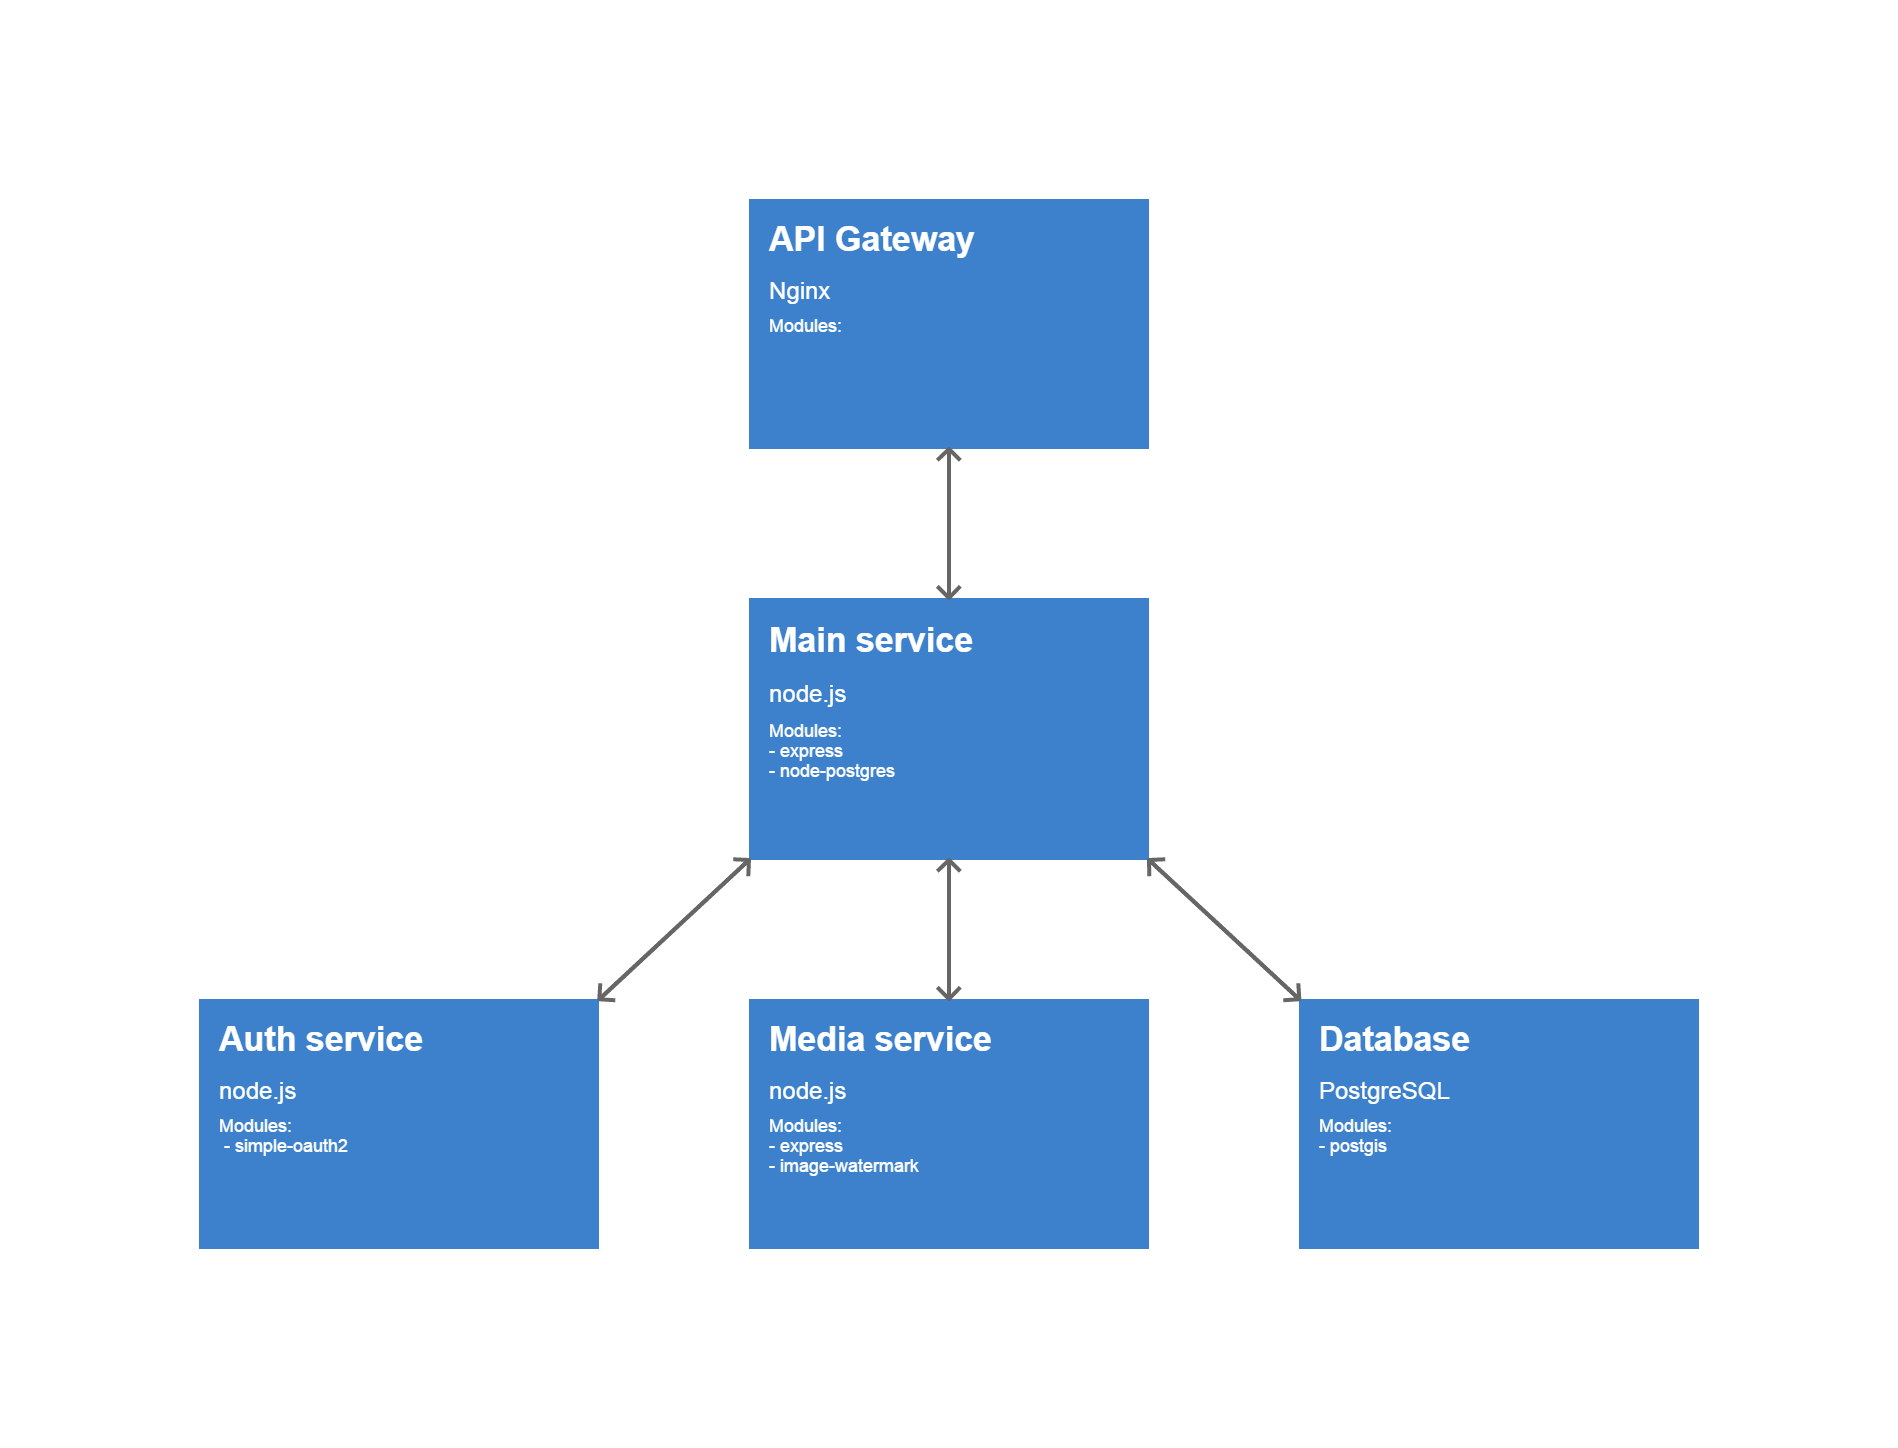
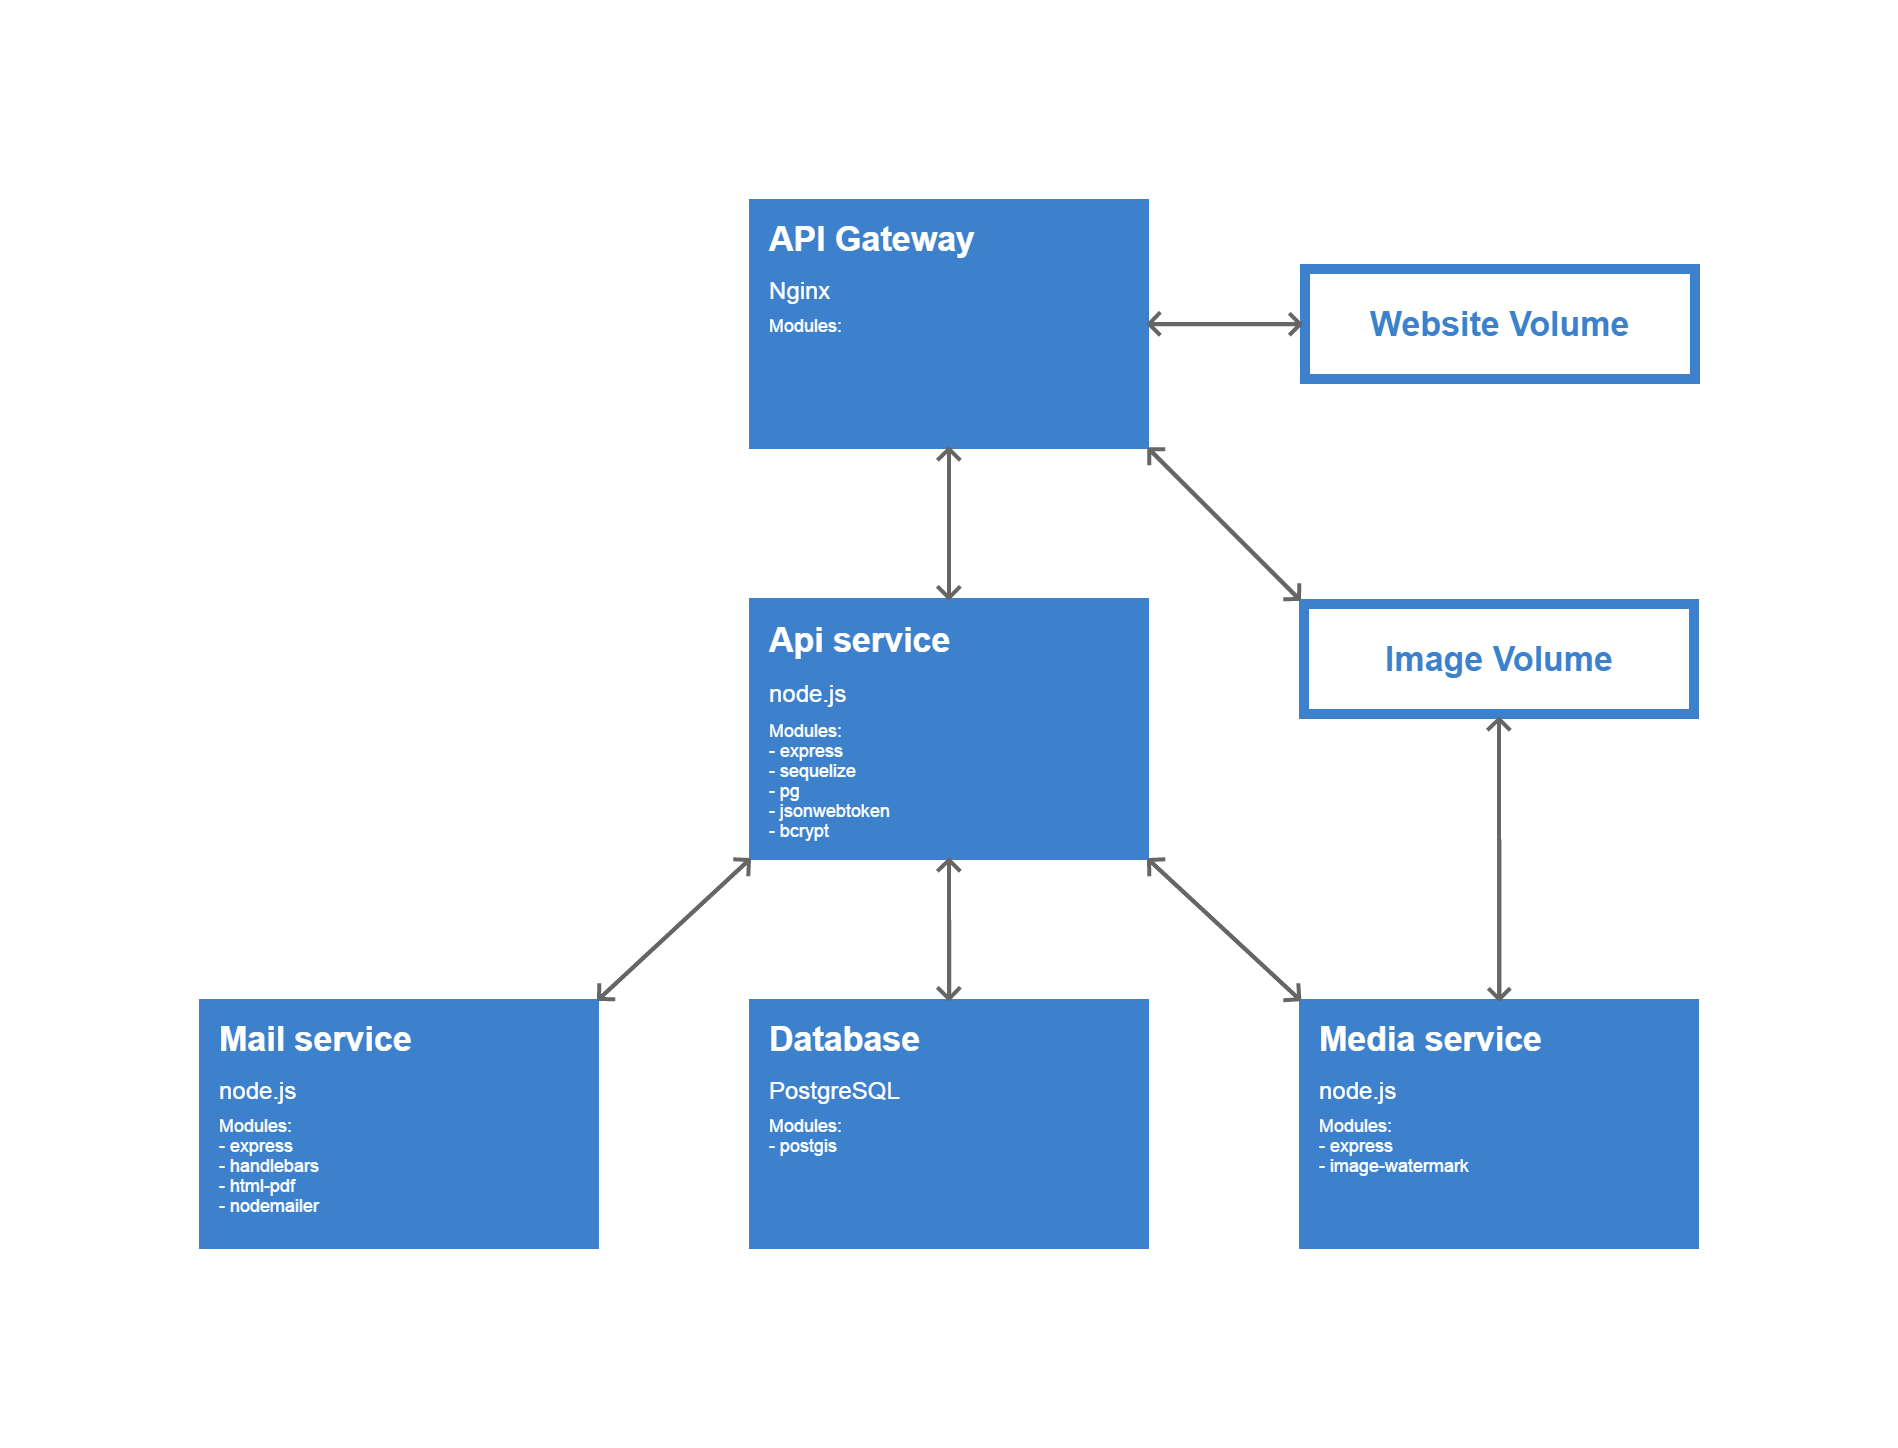
Revised SRS, added endpoint definitions

diff --git a/media/controllers/imageController.js b/media/controllers/imageController.js
@@ -1,7 +1,15 @@
 // Global image specifications.
 // TODO configure for multiple image sizes.
+// TODO Store info in a config.json file.
 const height = 450
 const width = 600
+
+const bgColor = 0x0000ffff
+const bgWidth = 400
+const bgHeight = 90
+const margin = 10
+
+const destinationDirectory = 'images/'
 
 const Jimp = require('jimp')
 const multer = require('multer')
@@ -12,7 +20,7 @@ const mime = require('mime')
 // extension.
 const storage = multer.diskStorage({
     destination: (req,res,cb) => {
-        cb(null, 'images/')
+        cb(null, destinationDirectory)
     },
     filename: (req,file,cb) => {
         crypto.pseudoRandomBytes(6, (err,raw) => {
@@ -25,19 +33,34 @@ const storage = multer.diskStorage({
 
 const upload = multer({storage: storage})
 
+function captionBackground(color,width,height) {
+    return function(x,y,offset) {
+        if(2*y+9*x<=9*width) {
+            this.bitmap.data.writeUInt32BE(color, offset, true);
+        }
+    }
+}
+
+// TODO Add a caption background size calculator, based on caption word length.
+const blueBackground = captionBackground(bgColor,bgWidth,bgHeight)
+
 // Image processing function, it returns a promise with the generated file name.
 function process(destination, filename ,caption) {
     var filepath = destination + filename
     return Jimp.read(filepath)
         .then( (image) => {
-            return Jimp.loadFont(Jimp.FONT_SANS_32_BLACK)
-            .then( (font) => {
-                image.resize(Jimp.AUTO,height)
-                     .cover(width,height,Jimp.HORIZONTAL_ALIGN_CENTER,Jimp.VERTICAL_ALIGN_MIDDLE)
-                     .print(font,10,10,caption,width/2)
-                     .write(filepath);
-                return Promise.resolve(filename)
-            })
+            return Jimp.loadFont(Jimp.FONT_SANS_32_WHITE)
+                       .then( (font) => {
+                           return Promise.resolve([image,font])
+                       })
+        })
+        .then( ([image,font]) => {
+            image.resize(Jimp.AUTO,height)
+                 .cover(width,height,Jimp.HORIZONTAL_ALIGN_CENTER,Jimp.VERTICAL_ALIGN_MIDDLE)
+                 .scan(0,0,bgWidth,bgHeight,blueBackground)
+                 .print(font,margin,margin,caption,bgWidth-2*margin)
+                 .write(filepath);
+            return Promise.resolve(filename)
         })
         .catch( (err) => {
             console.error(err)

diff --git a/Software Requirements Specification.md b/Software Requirements Specification.md
@@ -2,17 +2,19 @@
 
 ### for **goKiddo**
 
-#### 7/1/18 - Version 0.2 prepared by **TeamRocket**
+#### 7/1/18 - Version 0.4 prepared by **TeamRocket**
 
 <!-- TOC depthFrom:3 depthTo:6 withLinks:1 updateOnSave:0 orderedList:0 -->
 
-- [1. Introduction](#1-introduction)
+- [for **goKiddo**](#for-gokiddo)
+	- [7/1/18 - Version 0.4 prepared by **TeamRocket**](#7118-version-04-prepared-by-teamrocket)
+- [1.	 Introduction](#1-introduction)
 	- [1.1	Purpose](#11-purpose)
-	- [1.2 Document Conventions](#12-document-conventions)
+	- [1.2 	Document Conventions](#12-document-conventions)
 	- [1.3	Intended Audience and Reading Suggestions](#13-intended-audience-and-reading-suggestions)
 	- [1.4 	Product Scope](#14-product-scope)
 	- [1.5 	References](#15-references)
-- [2. 	Overall Description](#2-overall-description)
+- [2.		Overall Description](#2-overall-description)
 	- [2.1 	Product Perspective](#21-product-perspective)
 	- [2.2 	Product Functions](#22-product-functions)
 	- [2.3 	User Classes and Characteristics](#23-user-classes-and-characteristics)
@@ -20,32 +22,50 @@
 	- [2.5 	Design and Implementation Constraints](#25-design-and-implementation-constraints)
 	- [2.6 	User Documentation](#26-user-documentation)
 	- [2.7 	Assumptions and Dependencies](#27-assumptions-and-dependencies)
-- [3. 	External Interface Requirements](#3-external-interface-requirements)
+- [3.		External Interface Requirements](#3-external-interface-requirements)
 	- [3.1 	User Interfaces](#31-user-interfaces)
 	- [3.2 	Hardware Interfaces](#32-hardware-interfaces)
 	- [3.3 	Software Interfaces](#33-software-interfaces)
-		- [3.3.1 Auth service](#331-auth-service)
-		- [3.3.2 Database](#332-database)
-		- [3.3.3 Media service](#333-media-service)
-		- [3.3.4 Main service](#334-main-service)
-		- [3.3.5 API gateway](#335-api-gateway)
+		- [3.3.1		Mail service](#331-mail-service)
+		- [3.3.2		Database](#332-database)
+		- [3.3.3		Media service](#333-media-service)
+		- [3.3.4		Api service](#334-api-service)
+		- [3.3.5 	Nginx server](#335-nginx-server)
+		- [3.3.6 	App service](#336-app-service)
 	- [3.4 	Communications Interfaces](#34-communications-interfaces)
+		- [3.4.1	Public Endpoints](#341-public-endpoints)
+		- [3.4.2	Parent Protected Endpoints](#342-parent-protected-endpoints)
+		- [3.4.3	Owner Protected Endpoints](#343-owner-protected-endpoints)
+		- [3.4.3	Admin Protected Endpoints](#343-admin-protected-endpoints)
 - [4. 	System Features](#4-system-features)
-	- [4.1 User authentication](#41-user-authentication)
-		- [4.1.1 Description](#411-description)
+	- [4.1 	User authentication](#41-user-authentication)
+		- [4.1.1	Description](#411-description)
 		- [4.1.2 Stimulus/Response sequence](#412-stimulusresponse-sequence)
-	- [4.2 Activity search](#42-activity-search)
-	- [4.3 Activity booking](#43-activity-booking)
-	- [4.4 Venue registration](#44-venue-registration)
-	- [4.5 Activity registration](#45-activity-registration)
-	- [4.6 System administration](#46-system-administration)
+	- [4.2	Activity search](#42-activity-search)
+	- [4.2.1 	Description](#421-description)
+		- [4.2.2 Stimulus/Response sequence](#422-stimulusresponse-sequence)
+	- [4.3 	Activity booking](#43-activity-booking)
+	- [4.3.1 	Description](#431-description)
+		- [4.3.2 Stimulus/Response sequence](#432-stimulusresponse-sequence)
+	- [4.4	Currency management](#44-currency-management)
+	- [4.4.1	Description](#441-description)
+	- [4.4.2 Stimulus/Response sequence](#442-stimulusresponse-sequence)
+	- [4.5	Venue and activity registration](#45-venue-and-activity-registration)
+	- [4.5.1 	Venue registration](#451-venue-registration)
+	- [4.5.1.1 Description](#4511-description)
+	- [4.5.2	Activity registration](#452-activity-registration)
+	- [4.5.2.1	Description](#4521-description)
+	- [4.5.3 Stimulus/Response sequence](#453-stimulusresponse-sequence)
+	- [4.6	System administration](#46-system-administration)
+	- [4.6.1 	Description](#461-description)
+	- [4.6.2	Stimulus/Response sequence](#462-stimulusresponse-sequence)
 - [5. 	Other Nonfunctional Requirements](#5-other-nonfunctional-requirements)
-	- [5.1     Performance Requirements](#51-performance-requirements)
+	- [5.1	Performance Requirements](#51-performance-requirements)
 	- [5.2 	Safety Requirements](#52-safety-requirements)
 	- [5.3 	Security Requirements](#53-security-requirements)
 	- [5.4 	Software Quality Attributes](#54-software-quality-attributes)
 	- [5.5 	Business Rules](#55-business-rules)
-		- [5.5.1 Digital wallet](#551-digital-wallet)
+		- [5.5.1	Digital wallet](#551-digital-wallet)
 		- [5.5.1 Ticket policy](#551-ticket-policy)
 		- [5.5.1 Revenue model](#551-revenue-model)
 - [6. 	Other Requirements](#6-other-requirements)
@@ -255,12 +275,15 @@ The architecture is detailed below:
 
 ![](SRS_images/architecture.png)
 
-##### 3.3.1		Auth service
-A `node.js` implementation of the [OAuth2](https://oauth.net/2/) protocol using
-[JSON Web Tokens](https://jwt.io/). To accomplish this, the service utilizes the
-`simple-OAuth2` node module to generate and maintain an authentication token once
-the user is logged in and use it to determine if any privileged data should be
-served.
+##### 3.3.1		Mail service
+A service that handles the e-mail submission of purchased tickets, using an
+`html` template of a receipt, compiling it with `handlebars` package according
+to the purchase details, parsing it through the `html-pdf` package and finally
+sending it using the `nodemailer` package. The host mail service is to be
+determined.
+
+Special care has been taken to minimize the load on the disk, as both
+html-to-pdf conversion and attachment submission are implemented using streams.
 
 ##### 3.3.2		Database
 We opt for a relational database, since our data model is rather aligned with
@@ -275,28 +298,68 @@ An initial version of the database schema is presented below:
 As described in the exercise requirements, we must implement a separate services
 tasked with applying a watermark to all submitted venue images. The proposed
 service runs on `node.js` and utilizes node module `image-watermark` to apply
-the watermark to a submitted image and then return it to be stored in our main
-server.
+the watermark to a submitted image, store it in our static image volume and then
+return the name it has assigned to it.
 
-##### 3.3.4		Main service
-Our main service is written in `node.js` to handle user requests and distribute
-them to the corresponding services. It uses the `node-postgre` driver to
-communicate with the Database.
+##### 3.3.4		Api service
+Our main service is written in `node.js` to handle and authenticate user
+requests, using `JasonWebTokens`.
 
-##### 3.3.5 	API gateway
+The responsibilities include making database queries, using the `sequelize`
+Object-relational mapping package, along with the `pg` PostgreSQL client, and
+relaying client requests to the corresponding services.
+
+##### 3.3.5 	Nginx server
 We aim to create a single access point for calls to our application. To this end
-we will design a simple Nginx server to handle all incoming load.
+we will design a simple Nginx server to handle all incoming load. The service
+has also been tasked with serving static application files and images.
 
 The Nginx service is also set to implement communication encryption via a
 self-signed certificate.
 
 We opted for this additional `nginx` layer to reduce the load on the `node.js`
-main service.
+api service.
+
+##### 3.3.6 	App service
+The application front-end is developed using the `ReactJS` framework. It is to
+be bundled along in the app folder, only to be built from source by a node
+docker image and linked to the `Nginx` service as a static file.
 
 #### 3.4 	Communications Interfaces
-The current document refrains from providing details on inter-system
-communication, as it is utilized by either the operating system or the
-conventional internet transfer protocols.
+We have determined the following endpoints that our public API exposes to every
+application client. Endpoints between services are to be determined in the next
+iteration.
+
+##### 3.4.1	Public Endpoints
+
+| Method | Endpoint | Parameters | Description |
+| - | - | - | - |
+| GET | `/api/activity` | `urlencoded`<br><br>date, lat, long, distance, max_price, min_price, tag, search | The endpoint for searching for activities. The `search` field contains the search string and the rest are the filters to be applied to the results. |
+| GET | `/images/:file` | - | Get a static image, named `file`. |
+| GET | `/api/activity/:id` | - | Get the details of the activity with `id` id. |
+| POST | `/api/register` | `body:text/json` <br><br> Email, Password, Role, {Parent,Owner} details | Register a new user with the supplied Email, Password and Role. |
+| POST | `/api/login` | `body:text/json` <br><br> Email, Password | Attempt to login to our service.</br></br>Upon success, the call returns a JWT access token. |
+
+##### 3.4.2	Parent Protected Endpoints
+| Method | Endpoint | Parameters | Description |
+| - | - | - | - |
+| GET | `/api/wallet` | `body:text/json` <br><br> AccessToken, Page, Offset | Get an overview of the parent digital wallet.</br></br>Get paginated results of the purchase history. |
+| POST | `/api/wallet` | `body:text/json` <br><br> AccessToken, Card, Expiry, Security | Top up digital wallet.</br></br>In the scope of this implementation, this call is guaranteed to succeed. |
+| POST | `/api/activity/:id` | `body:text/json` <br><br> AccessToken, Date, Quantity | Attempt to book `quantity` number of tickets for event `id` for the `date` date. |
+| POST | `/activity/:id/rate` | `body:text/json` <br><br> AccessToken, Score, Complaints | After the activity is finished, receive an email linking to the review page of the activity.</br></br>The parent must be logged in, as the review page access will be validated against their ticket purchase. |
+
+##### 3.4.3	Owner Protected Endpoints
+| Method | Endpoint | Parameters | Description |
+| - | - | - | - |
+| POST | `/api/activity` | `body:text/json` <br><br> AccessToken, Name, AgeGroups, Description, Pictures, Coordinates, Tags, Listings | Register a new activity |
+| PUT, DELETE | `/api/activity/:id` | `body:text/json` <br><br> AccessToken, Name, AgeGroups, Description, Pictures, Coordinates, Tags, Listings | Alter, delete an existing activity. For simplicity, it is impossible to delete or alter an activity with active listings. |
+| GET | `/api/statistics` | `body:text/json` <br><br> AccessToken | Get a statistical overview of ticket sales by month and by activity. |
+| GET | `/api/wallet` | `body:text/json` <br><br> AccessToken | Get a detailed overview of the account balance. |
+
+##### 3.4.3	Admin Protected Endpoints
+| Method | Endpoint | Parameters | Description |
+| - | - | - | - |
+| GET, PUT, DELETE | * | `body:text/json` <br><br> AccessToken | The admin has universal access to create, edit and delete entities. |
 
 ### 4. 	System Features
 This section includes the requirements that specify the fundamental actions of the software system.
